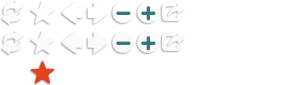
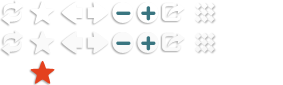
qianjun

diff --git a/app/assets/javascripts/subject.js b/app/assets/javascripts/subject.js
@@ -2,57 +2,73 @@
 
 //控制做题页面主体高度
 $(function(){
-   // var doc_height = $(document).height();
-	//var doc_width = $(document).width();
-	var win_height = $(window).height();
-	//var win_width = $(window).width();
-	var head_height = $(".subject_head").height();
+    // var doc_height = $(document).height();
+    //var doc_width = $(document).width();
+    var win_height = $(window).height();
+    //var win_width = $(window).width();
+    var head_height = $(".subject_head").height();
 	
-	var main_height = win_height-head_height;
-	$(".subject_main").css('height',main_height-3);//3为subject_head的margin-bottom: 3px;
-	$(".sub_side").css('height',main_height-3);
+    var main_height = win_height-head_height;
+    $(".subject_main").css('height',main_height-3);//3为subject_head的margin-bottom: 3px;
+    $(".sub_side").css('height',main_height-3);
 })
 
 //选择题点击隐藏
- $(function(){
-	$(".question_title").bind("click",function(){
-		var $q_div = $(this).siblings();
-		if($q_div.is(":visible")){
-			$q_div.hide();
-			$(this).addClass("qt_height");
-		}else{
-			$q_div.show();
-			$(this).removeClass("qt_height");
-		}
+$(function(){
+    $(".question_title").bind("click",function(){
+        var $q_div = $(this).siblings();
+        if($q_div.is(":visible")){
+            $q_div.hide();
+            $(this).addClass("qt_height");
+        }else{
+            $q_div.show();
+            $(this).removeClass("qt_height");
+        }
 
-	})	 
+    })
 })
 
 
 //提交错误弹出层
 
 $(function(){
-	//var doc_height = $(document).height();
-	//var doc_width = $(document).width();
-	var win_height = $(window).height();
-	var win_width = $(window).width();
+    //var doc_height = $(document).height();
+    //var doc_width = $(document).width();
+    var win_height = $(window).height();
+    var win_width = $(window).width();
 	
-	var z_layer_height = $('.upErrorTo_tab').height();
-	var z_layer_width = $('.upErrorTo_tab').width();
+    var z_layer_height = $('.upErrorTo_tab').height();
+    var z_layer_width = $('.upErrorTo_tab').width();
 	
-	//tab
-	$('.upErrorTo_btn').bind('click',function(){
+    //tab
+    $('.upErrorTo_btn').bind('click',function(){
 		
-			$('.upErrorTo_tab').css('top',(win_height-z_layer_height)/2);
-			$('.upErrorTo_tab').css('left',(win_width-z_layer_width)/2);
-			$('.upErrorTo_tab').css('display','block');
-			$('.mask').css('height',win_height);
-			$('.mask').css('display','block');
-		}
-	)
-	$('.x').click(function(){
-		$('.upErrorTo_tab').css('display','none');
-		$('.mask').css('display','none');
-	})
+        $('.upErrorTo_tab').css('top',(win_height-z_layer_height)/2);
+        $('.upErrorTo_tab').css('left',(win_width-z_layer_width)/2);
+        $('.upErrorTo_tab').css('display','block');
+        $('.mask').css('height',win_height);
+        $('.mask').css('display','block');
+    }
+    )
+    $('.x').click(function(){
+        $('.upErrorTo_tab').css('display','none');
+        $('.mask').css('display','none');
+    })
 
 })
+
+
+function check_similar(category){
+    $.ajax({
+        async:true,
+        type:'post',
+        dataType:'json',
+        url:"/learn/check_similar",
+        data:{
+            category:category
+        },
+        success :function (data){
+           tishi_alert(data.message);
+        }
+    });
+}

diff --git a/app/assets/stylesheets/subject.css b/app/assets/stylesheets/subject.css
@@ -101,6 +101,8 @@ form{clear:both;}
 
 .icon_return a { background: url(/assets/icon_func.png) no-repeat -159px 0;}
 .icon_return a:hover { background: url(/assets/icon_func.png) no-repeat -159px -30px;}
+.icon_course a { background: url(/assets/icon_func.png) no-repeat -192px 0;}
+.icon_course a:hover { background: url(/assets/icon_func.png) no-repeat -192px -30px;}
 
 
 .subject_main,.problem_resource { width: 100%; overflow: hidden;}

diff --git a/app/controllers/learn_controller.rb b/app/controllers/learn_controller.rb
@@ -555,4 +555,30 @@ class LearnController < ApplicationController
     return {:type => cookies[:type],:time=>num}
   end
 
+
+  def check_similar
+    plan = UserPlan.find_by_category_id_and_user_id(params[:category].to_i, cookies[:user_id].to_i)
+    xml = plan.plan_list_xml
+    inner_chapt=xml.root.elements["plan/current"].text.to_i
+    total_bag= xml.root.elements["plan/info/chapter1"].attributes["days"].to_i+xml.root.elements["plan/info/chapter2"].attributes["days"].to_i
+    each_num=xml.root.elements["plan/info/chapter3"].attributes["similarity"].to_i
+    if total_bag >= inner_chapt
+      data="您还没有真题包"
+    else
+      total_actions=ActionLog.find_by_sql("select sum(total_num) num from action_logs where user_id=#{cookies[:user_id]}
+   and category_id=#{params[:category].to_i} and types=#{ActionLog::TYPES[:PRACTICE]}")[0]
+      if (inner_chapt-total_bag)*each_num <=  total_actions.num.to_i
+        is_part_pass?(plan, xml)
+        data="第#{(inner_chapt+1)<plan.days ? (inner_chapt+1) : plan.days }个包已解锁"
+      else
+        data="您还需要#{(inner_chapt-total_bag)*each_num-total_actions.num.to_i}道真题才能解锁下一个包"
+      end
+    end
+    respond_to do |format|
+      format.json {
+        render :json=>{:message=>data}
+      }
+    end
+  end
+  
 end

diff --git a/config/routes.rb b/config/routes.rb
@@ -39,7 +39,8 @@ GankaoSeason3::Application.routes.draw do
   resources :learn do
     collection do
       get  :listen, :pass_status, :study_it,:next_sentence
-      post :task_dispatch,:jude_word, :jude_sentence, :jude_hearing, :jude_read, :i_have_remember,:jude_translate,:jude_translate_one,:jude_listen,:jude_write
+      post :task_dispatch,:jude_word, :jude_sentence, :jude_hearing, :jude_read,:check_similar
+      post  :i_have_remember,:jude_translate,:jude_translate_one,:jude_listen,:jude_write
     end
   end
 

diff --git a/app/controllers/exam_users_controller.rb b/app/controllers/exam_users_controller.rb
@@ -20,6 +20,7 @@ class ExamUsersController < ApplicationController
       @sheet_url = sheet_url
       collection = CollectionInfo.find_by_paper_id_and_user_id(@paper_id,cookies[:user_id])
       @collection = collection.nil? ? [] : collection.question_ids.split(",")
+      @plan = UserPlan.find_by_category_id_and_user_id(params[:category].to_i, cookies[:user_id].to_i)
     rescue
       flash[:warn] = "试卷加载错误，请您重新尝试。"
       redirect_to request.referer
